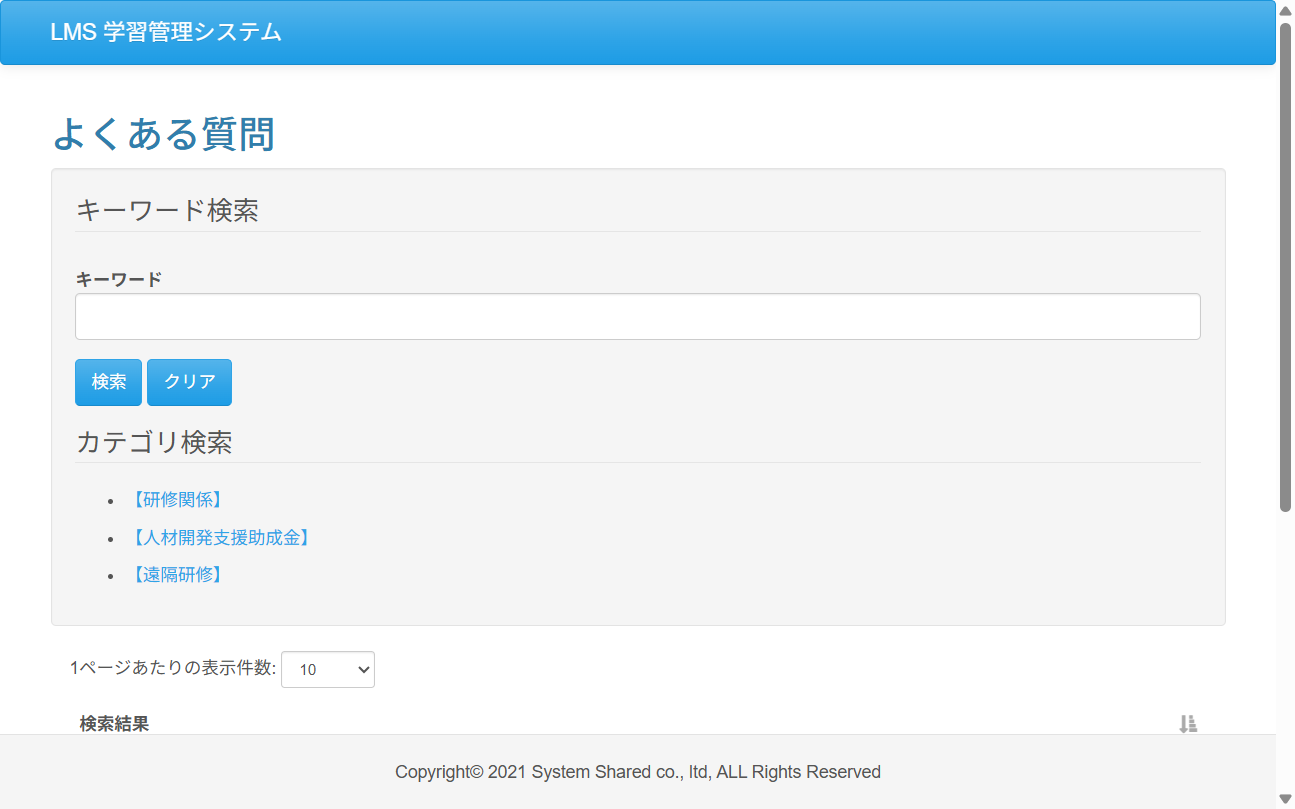
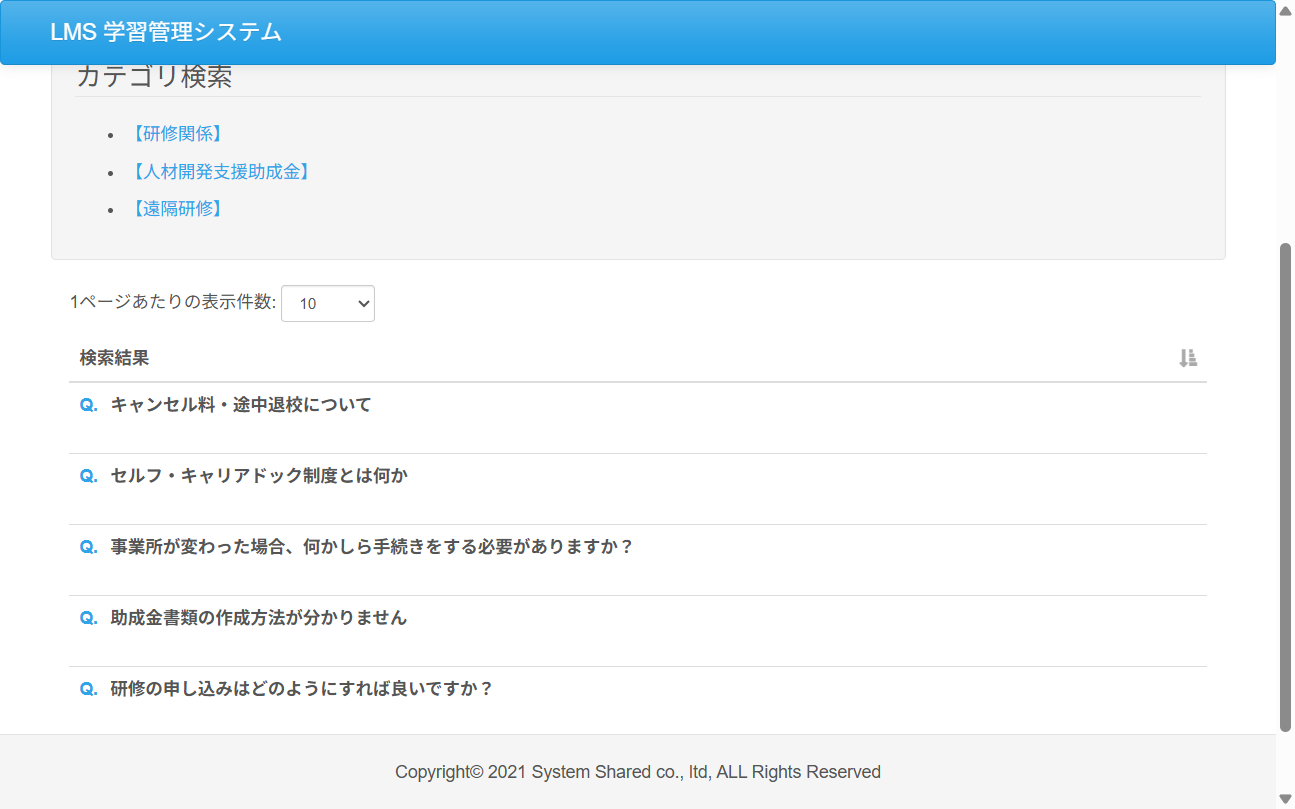
fix: Case06 jidapa カテゴリ検索テストを修正
カテゴリ検索のテストコードを修正し、
検索結果と回答表示を確認できるようにしました。

diff --git a/test_code_creation_name/src/test/java/jp/co/sss/lms/ct/f02_faq/Case06.java b/test_code_creation_name/src/test/java/jp/co/sss/lms/ct/f02_faq/Case06.java
@@ -3,8 +3,6 @@ package jp.co.sss.lms.ct.f02_faq;
 import static jp.co.sss.lms.ct.util.WebDriverUtils.*;
 import static org.junit.jupiter.api.Assertions.*;
 
-import java.util.List;
-
 import org.junit.jupiter.api.AfterAll;
 import org.junit.jupiter.api.BeforeAll;
 import org.junit.jupiter.api.DisplayName;
@@ -94,10 +92,38 @@ public class Case06 {
 		Object[] windowHandles = webDriver.getWindowHandles().toArray();
 		webDriver.switchTo().window((String) windowHandles[1]);
 
-		visibilityTimeout(By.tagName("h2"), 5);
+		visibilityTimeout(By.id("form"), 5);
 
 		assertEquals("よくある質問 | LMS", webDriver.getTitle());
-		assertTrue(webDriver.findElement(By.tagName("h2")).isDisplayed());
+		assertTrue(webDriver.findElement(By.id("form")).isDisplayed());
+		assertTrue(webDriver.findElement(By.linkText("【研修関係】")).isDisplayed());
+		assertTrue(webDriver.findElement(By.linkText("【人材開発支援助成金】")).isDisplayed());
+		assertTrue(webDriver.findElement(By.linkText("【遠隔研修】")).isDisplayed());
+
+		// 初期状態の質問5件が表示されていることを確認
+		WebElement lastQuestion = webDriver.findElement(
+				By.xpath("//*[contains(text(),'キャンセル料・途中退校について')]"));
+
+		assertTrue(webDriver.findElement(
+				By.xpath("//*[contains(text(),'研修の申し込みはどのようにすれば良いですか？')]"))
+				.isDisplayed());
+
+		assertTrue(webDriver.findElement(
+				By.xpath("//*[contains(text(),'助成金書類の作成方法が分かりません')]"))
+				.isDisplayed());
+
+		assertTrue(webDriver.findElement(
+				By.xpath("//*[contains(text(),'事業所が変わった場合、何かしら手続きをする必要がありますか？')]"))
+				.isDisplayed());
+
+		assertTrue(webDriver.findElement(
+				By.xpath("//*[contains(text(),'セルフ・キャリアドック制度とは何か')]"))
+				.isDisplayed());
+
+		assertTrue(lastQuestion.isDisplayed());
+
+		((JavascriptExecutor) webDriver).executeScript(
+				"arguments[0].scrollIntoView({block:'center'});", lastQuestion);
 
 		getEvidence(new Object() {
 		}, "06_04_よくある質問画面");
@@ -107,20 +133,29 @@ public class Case06 {
 	@Order(5)
 	@DisplayName("テスト05 カテゴリ検索結果を表示")
 	void test05() {
-		// カテゴリを選択
-		List<WebElement> categoryLinks = webDriver
-				.findElements(By.cssSelector("fieldset a[href*='frequentlyAskedQuestionCategoryId']"));
+		webDriver.findElement(
+				By.linkText("【研修関係】")).click();
 
-		// カテゴリが表示されていることを確認
-		assertFalse(categoryLinks.isEmpty());
+		// 「研修関係」の検索結果2件が表示されることを確認
+		visibilityTimeout(
+				By.xpath("//*[contains(text(),'キャンセル料・途中退校について')]"),
+				5);
 
-		// 最初のカテゴリをクリック
-		categoryLinks.get(0).click();
+		assertTrue(webDriver.findElement(
+				By.xpath("//*[contains(text(),'研修の申し込みはどのようにすれば良いですか？')]"))
+				.isDisplayed());
 
-		visibilityTimeout(By.cssSelector("table.sortabletable"), 5);
+		WebElement targetQuestion = webDriver.findElement(
+				By.xpath("//*[contains(text(),'キャンセル料・途中退校について')]"));
 
-		// 検索結果が表示されていることを確認
-		assertTrue(webDriver.findElement(By.cssSelector("table.sortabletable")).isDisplayed());
+		assertTrue(targetQuestion.isDisplayed());
+
+		// 検索結果が2件であることを確認
+		assertEquals(2, webDriver.findElements(
+				By.xpath("//*[contains(text(),'Q.')]")).size());
+
+		((JavascriptExecutor) webDriver).executeScript(
+				"arguments[0].scrollIntoView({block:'center'});", targetQuestion);
 
 		getEvidence(new Object() {
 		}, "06_05_カテゴリ検索結果");
@@ -130,25 +165,25 @@ public class Case06 {
 	@Order(6)
 	@DisplayName("テスト06 検索結果の質問をクリックしその回答を表示")
 	void test06() {
-		// 最初の質問を取得
-		WebElement question = webDriver.findElement(By.cssSelector("dl[id^='question-h'] dt"));
+		// 「キャンセル料・途中退校について」をクリックして回答を表示
+		WebElement question = webDriver.findElement(
+				By.xpath("//*[contains(text(),'キャンセル料・途中退校について')]"));
 
-		// 質問が見える位置までスクロール
 		((JavascriptExecutor) webDriver).executeScript(
-				"arguments[0].scrollIntoView({block: 'center'});", question);
+				"arguments[0].scrollIntoView({block:'center'});",
+				question);
 
-		// 質問をクリック
 		((JavascriptExecutor) webDriver).executeScript(
-				"arguments[0].click();", question);
+				"arguments[0].click();",
+				question);
 
-		// 回答を取得
-		WebElement answer = webDriver.findElement(By.cssSelector("dd[id^='answer-h']"));
+		WebElement answer = webDriver.findElement(
+				By.xpath("//*[contains(text(),'受講者の退職や解雇等')]"));
 
-		// 回答が表示されていることを確認
 		assertTrue(answer.isDisplayed());
 
 		getEvidence(new Object() {
 		}, "06_06_回答表示");
-
 	}
+
 }
